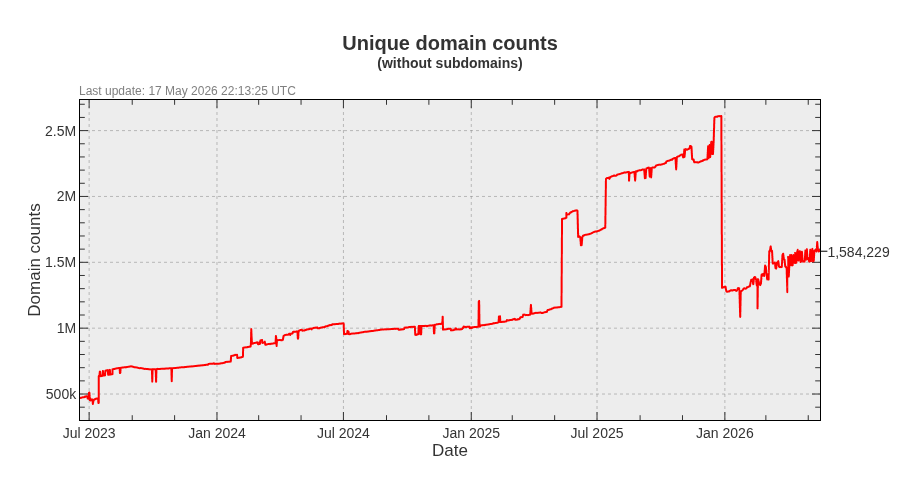
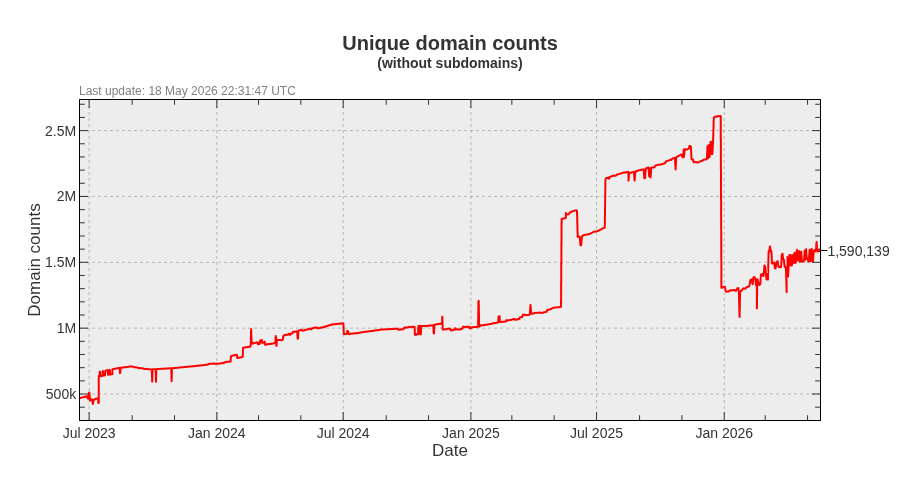
Update pages

diff --git a/README.md b/README.md
@@ -3,22 +3,22 @@ A blocklist file for blocking ads, trackers and malware domains.
 
[1 lines of base64/hex data omitted]
 
-- Unique domains: 2,264,252
-- Without subdomains: 1,584,229
-- Last update: 17 May 2026 22:13:25 UTC
-- Version: 2026.05.17.01
+- Unique domains: 2,271,525
+- Without subdomains: 1,590,139
+- Last update: 18 May 2026 22:31:47 UTC
+- Version: 2026.05.18.01
 
 
 ## Downloads:
 
 | Format             | Domain count      | Download Link |
 |------------------ | -----------------|-------------|
-| *Adblock Plus*     | 1,584,229 | [bad-hosts-abp](https://dl.cenk.app/bad-hosts/bad-hosts-abp) |
-| *Wildcard domains* | 1,584,229 | [bad-hosts-wildcard](https://dl.cenk.app/bad-hosts/bad-hosts-wildcard) |
-| *dnsmasq*          | 1,584,229 | [bad-hosts-dnsmasq](https://dl.cenk.app/bad-hosts/bad-hosts-dnsmasq) |
-| *hosts*            | 2,264,252 | [hosts](https://dl.cenk.app/bad-hosts/hosts) |
-| *hosts (ipv6)*     | 2,264,252 | [hosts-ipv6](https://dl.cenk.app/bad-hosts/hosts-ipv6) |
-| *Plain domains*    | 2,264,252 | [bad-hosts-domains](https://dl.cenk.app/bad-hosts/bad-hosts-domains) |
+| *Adblock Plus*     | 1,590,139 | [bad-hosts-abp](https://dl.cenk.app/bad-hosts/bad-hosts-abp) |
+| *Wildcard domains* | 1,590,139 | [bad-hosts-wildcard](https://dl.cenk.app/bad-hosts/bad-hosts-wildcard) |
+| *dnsmasq*          | 1,590,139 | [bad-hosts-dnsmasq](https://dl.cenk.app/bad-hosts/bad-hosts-dnsmasq) |
+| *hosts*            | 2,271,525 | [hosts](https://dl.cenk.app/bad-hosts/hosts) |
+| *hosts (ipv6)*     | 2,271,525 | [hosts-ipv6](https://dl.cenk.app/bad-hosts/hosts-ipv6) |
+| *Plain domains*    | 2,271,525 | [bad-hosts-domains](https://dl.cenk.app/bad-hosts/bad-hosts-domains) |
 
 ## Domain count history
 ### With subdomains